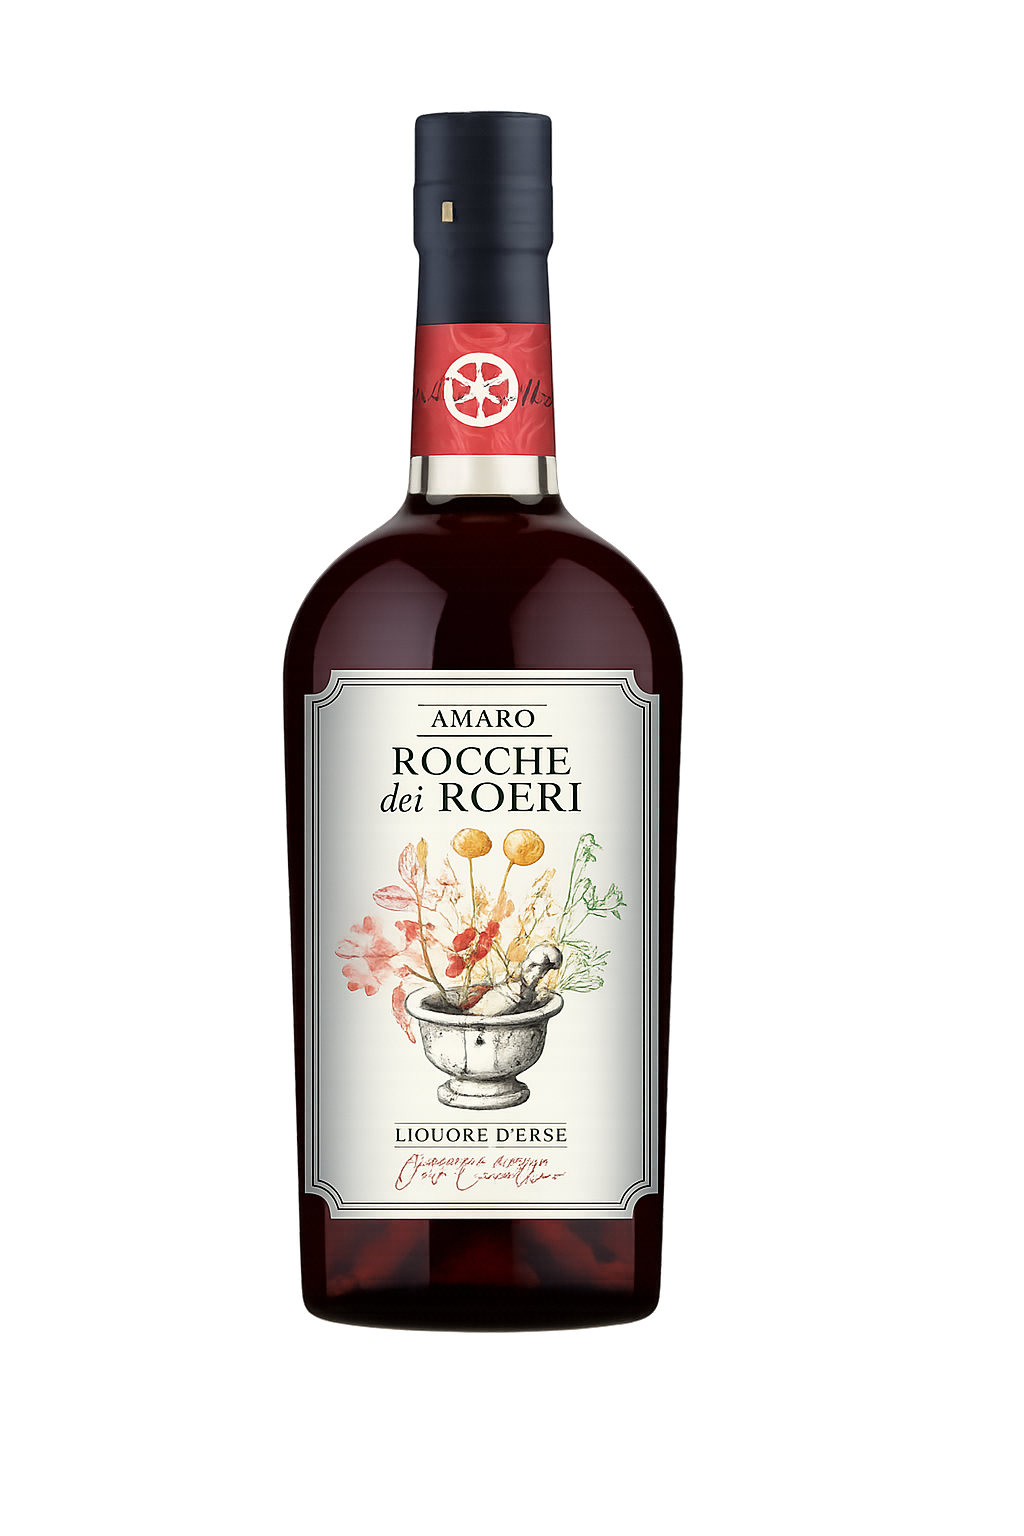
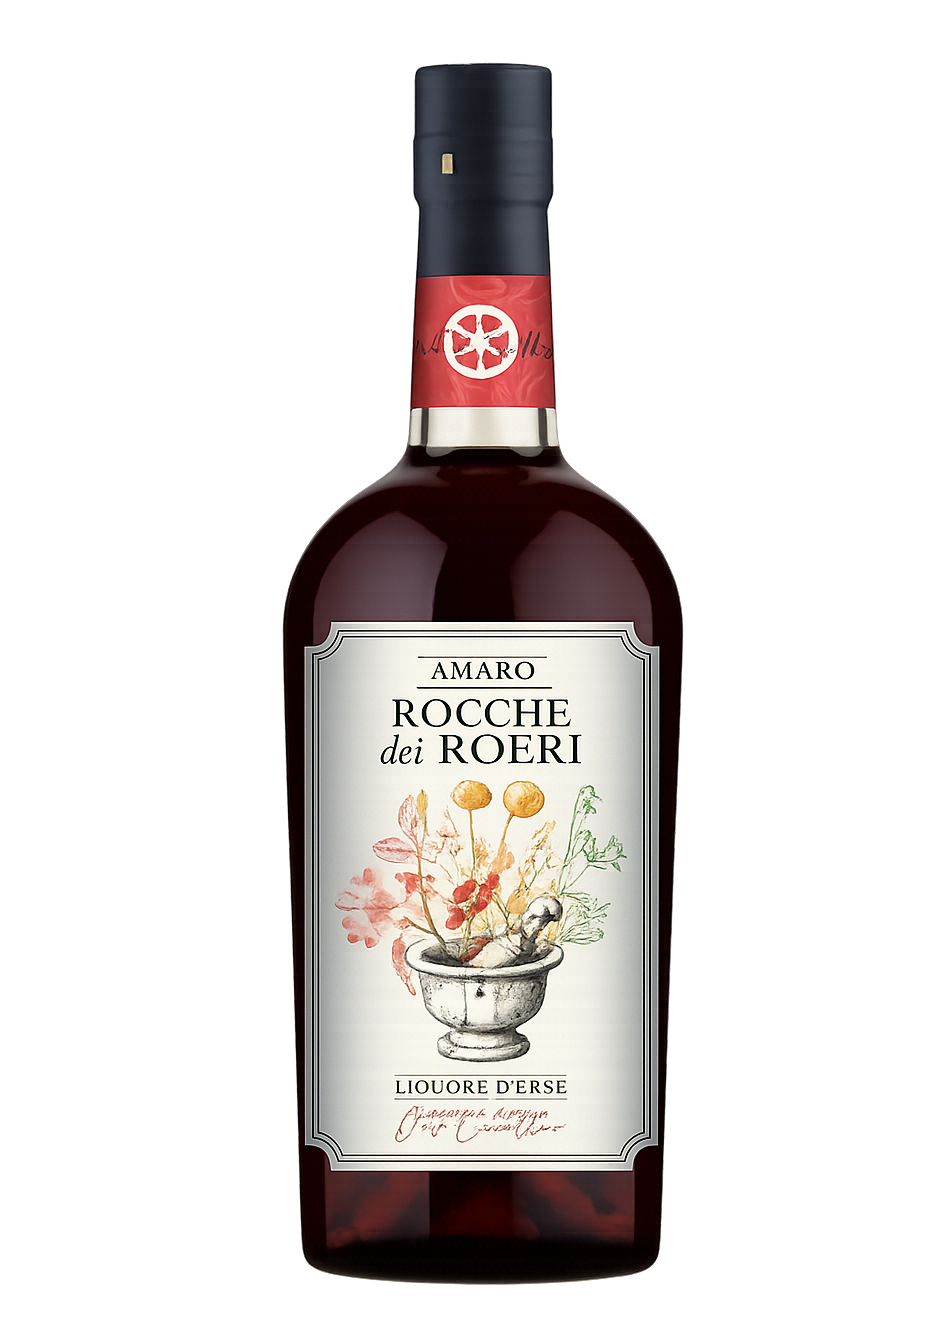
New photos

Changed region(s): [[0.275, 0.0307, 0.7334, 0.9813]]

diff --git a/src/sections/Rocche/RoccheSection.jsx b/src/sections/Rocche/RoccheSection.jsx
@@ -70,7 +70,7 @@ export default function RoccheSection() {
 
           component="img"
 
-          src="/images/rocche.png"
+          src="/images/rocche.jpeg"
 
           alt="Le Rocche del Roero"
 
@@ -78,7 +78,7 @@ export default function RoccheSection() {
             borderRadius: 3,
             width: {
               xs: "100%",
-              md: "70%"
+              md: "50%"
             }
           }}
 

diff --git a/src/data/products.js b/src/data/products.js
@@ -4,7 +4,7 @@ const products = [
 
         name: "Amaro Rocche dei Roeri",
 
-        image: "/images/bottiglia-amaro-vetrina.jpeg",
+        image: "/images/bottiglia-amaro.png",
 
         description:
             "Un amaro nato dalle erbe spontanee del territorio roerino.",
